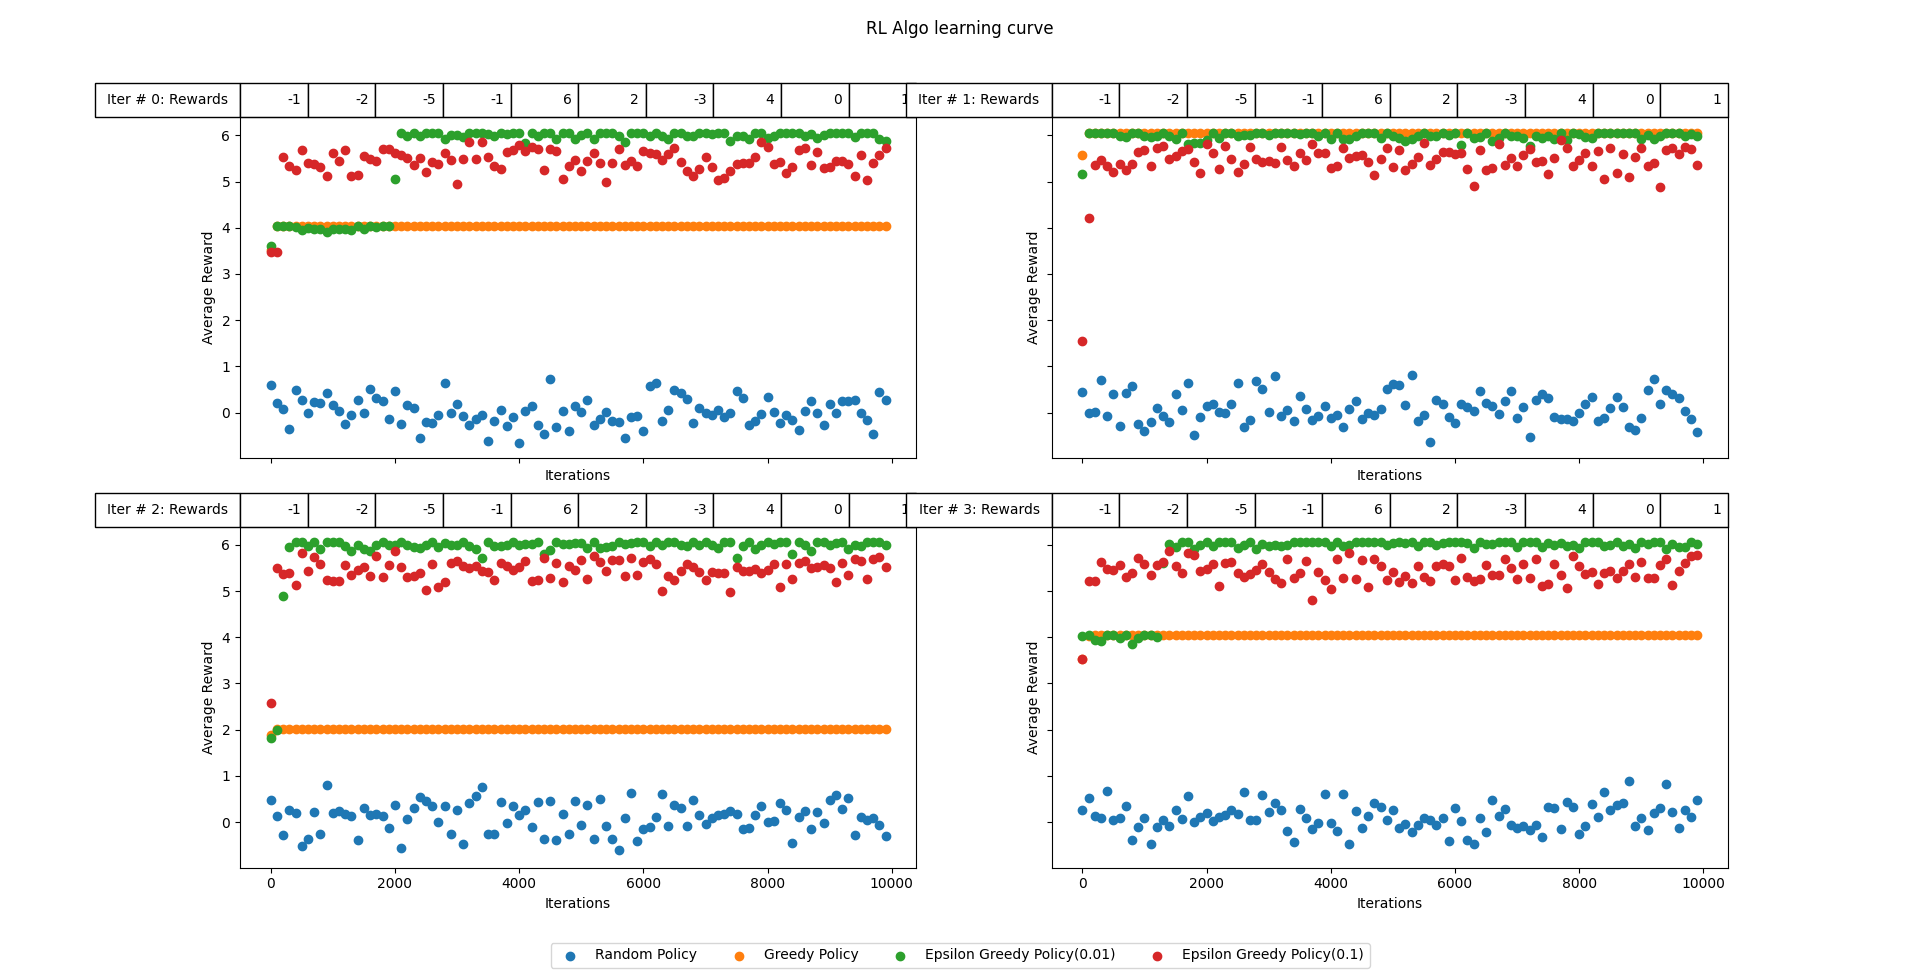
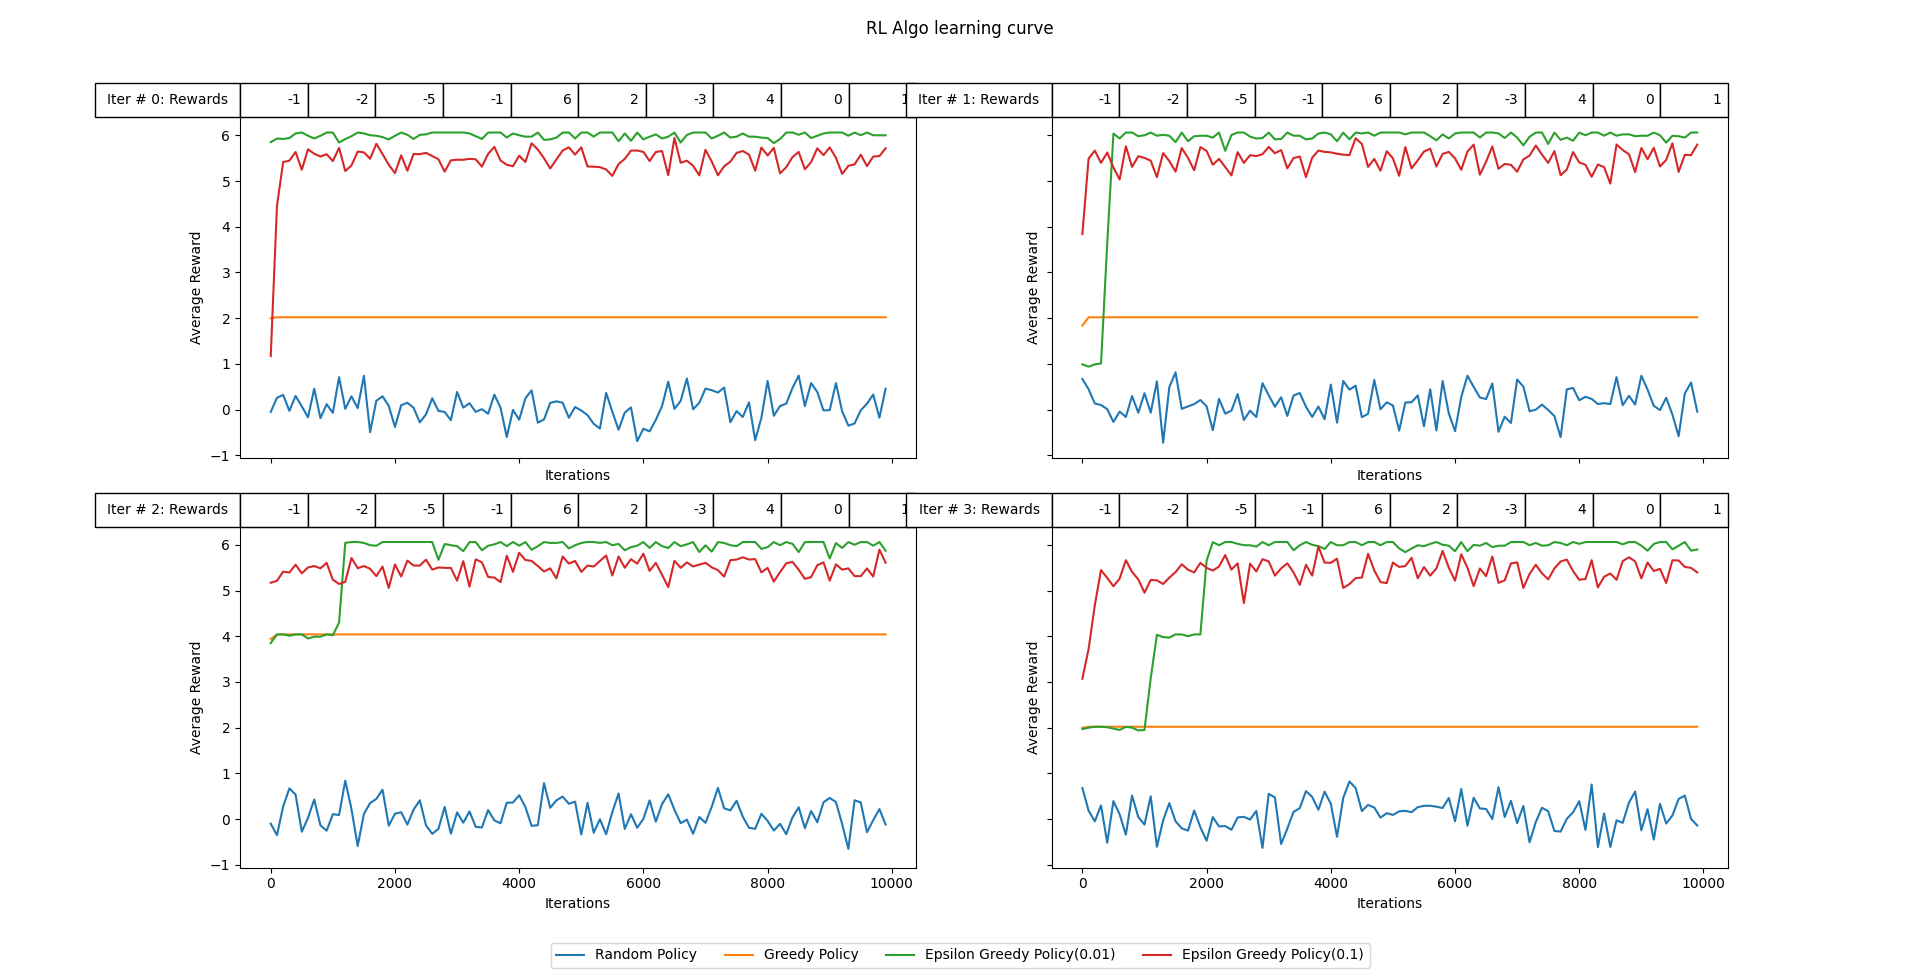
Evaluation of 10-arm Bandit Agent with stationary Reward. 1. Simple Bandit Agent with stationary Reward. 2. Evaluated for Random, Greedy and Epsilon-Greedy policies. 3. Added Sample Output and conclusions. 4. Switched to a line plot for better visualization

diff --git a/RL/simple_bandits.py b/RL/simple_bandits.py
@@ -108,7 +108,7 @@ def main():
     action_space_n = 10
 
     # Selecting the average Value Creation method from [SampleAverage, ExponentialRecencyWeightedAverage]
-    avg_val_method = ExponentialRecencyWeightedAverage()
+    avg_val_method = SampleAverage()#ExponentialRecencyWeightedAverage()
 
     # For each policy run the simulation for X epochs with Y iterations each
     training_epochs = 100  # Number of training epochs
@@ -199,10 +199,10 @@ def main():
 
                 legend_lbl = legend_lbl + policy_to_use.name()
 
-                axs[r_axis][c_axis].scatter(
-                    x=curr_record['data']['iter'],
-                    y=curr_record['data']['values'],
-                    label=legend_lbl                 
+                axs[r_axis][c_axis].plot(
+                    np.array(curr_record['data']['iter']),
+                    np.array(curr_record['data']['values']),
+                    label=legend_lbl
                 )
             
             # Common reward table for all the polices
